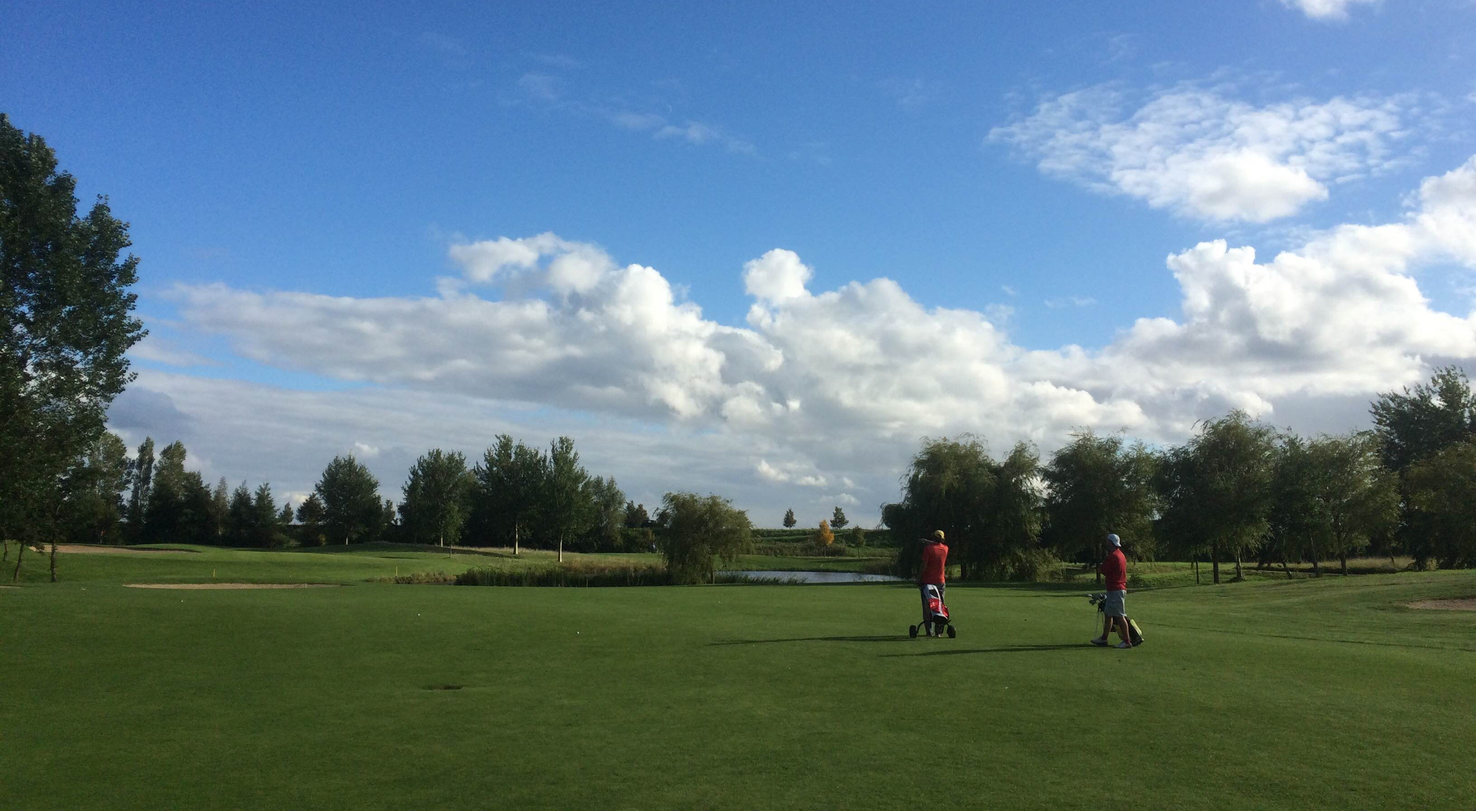
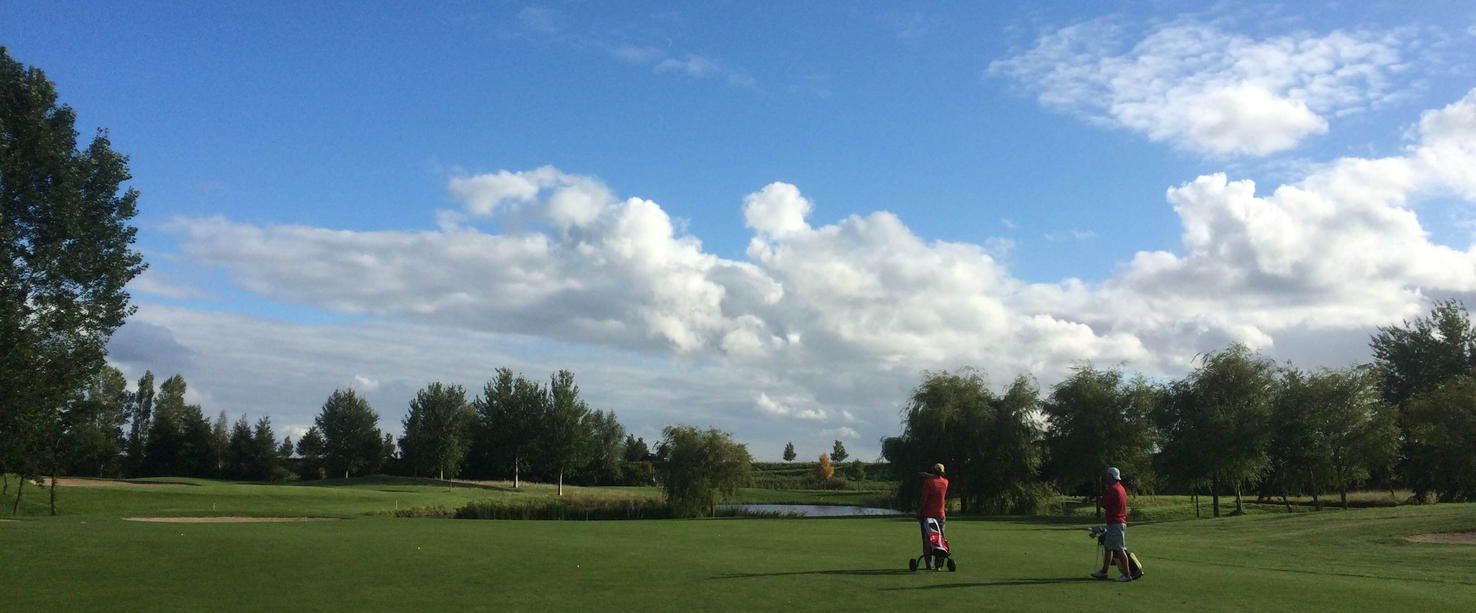
tweaks

diff --git a/index.html b/index.html
@@ -78,7 +78,7 @@
             <h2>Persoonlijke coaching op de golfbaan</h2>
             <p>Golf is als het leven zelf en weerspiegelt wie je bent. Op de golfbaan toont de golfer hoe en wie hij is als mens. Tijdens het spelen van golf heb ik gemerkt dat ik me niet voor mezelf kan verstoppen: ik golf zoals ik ben. Die conclusie heeft mij er toe gebracht mijn werk als psycholoog te combineren met het golfspel. Zo ben ik begonnen met het geven van coachingsconsulten in de golfbaan. Daar merkte ik dat ik sneller inzicht kreeg in de ander en dat de golfbaan een uitstekende plek is om mensen op scherp te zetten.</p>
             <p><em>Ik golf zoals ik ben</em> heeft tot doel mensen inzicht in zichzelf te geven door gebruik te maken van het golfspel. <em>Ik golf zoals ik ben</em> helpt in de begeleiding bij persoonlijke groei, het overkomen van obstakels in het leven en het verkrijgen van meer inzicht in eigen functioneren en handelen. Door zelfinzicht slagvaardig in je leven.</p>
-            <img src="./static/img/goese-golf.jpg" alt="Goese Golf">
+            <img src="./static/img/felixstowe.jpg" alt="Felixstowe Golf Course">
         </section>
 
         <section id="voor-wie">
@@ -114,19 +114,25 @@
             </ul>
                     
             <p><em>Ik golf zoals ik ben</em> is bedoeld voor mensen die golf spelen en meer inzicht willen krijgen in hun persoonlijke sterke en zwakke punten. Het is primair gericht op slagvaardiger worden in het leven, werk of prive. Beter golfen kan een bijwerking zijn, maar is niet het doel van deze coaching.  Een voorwaarde is dat iemand bekend is met de golfsport, en bij voorkeur een golfvaardigheidsbewijs of een baanpermissie bezit.</p>
+
+            <img src="./static/img/goese-golf.jpg" alt="Goese Golf">
         </section>
 
         <section id="hoe-werkt-het">
-            <h2>Hoe werkt het?</h2>
-            
-            <p><em>Ik golf zoals ik ben</em> gebruikt golf als middel om in korte tijd tot de kern van uw vraag te komen. In elke ronde wordt een persoonlijk doel en een concreet golfdoel afgesproken.</p>
-
-            <p><em>Ik golf zoals ik ben</em> biedt een uitgebreid coachings- of begeleidingstraject. Een standaard traject omvat vijf tot zeven ontmoetingen, waarvan in ieder geval een tot drie keer op de golfbaan. In compactere vorm is <em>Ik golf zoals ik ben</em> er in een pakket van twee en een half uur met inbegrip van intake, verkennende golfronde en korte nabespreking.</p>
-
             <blockquote>
                 ‘You get to know more of the character of a man in a round of golf than in six months of political experience’
                 <cite>David Lloyd George (1863-1945), Brits Liberal Prime Minister</cite>
             </blockquote>
+
+            <h2>Hoe werkt het?</h2>
+            
+            <p><em>Ik golf zoals ik ben</em> gebruikt golf als middel om in korte tijd tot de kern van uw vraag te komen. In elke ronde wordt een persoonlijk doel en een concreet golfdoel afgesproken.</p>
+
+            <p>
+                <em>Ik golf zoals ik ben</em> biedt een uitgebreid coachings- of begeleidingstraject. Een standaard traject omvat vijf tot zeven ontmoetingen, waarvan in ieder geval een tot drie keer op de golfbaan. In compactere vorm is <em>Ik golf zoals ik ben</em> er in een pakket van twee en een half uur met inbegrip van intake, verkennende golfronde en korte nabespreking.
+            </p>
+
+            
 
             <p>In een kennismakingsgesprek, worden vragen en doelen op een rij gezet. Dit kennismakingsgesprek kan direct voorafgaand aan het spelen, maar kan ook op een eerder tijdstip, los van de golfronde, plaatsvinden.</p>
 
@@ -135,7 +141,7 @@
 
         <section id="over-eelco">
             <h2>Over Eelco</h2>
-            <p>Ik ben gezondheidszorg-psycholoog met een passie voor golf. Die heb ik gevonden in <em>Ik golf zoals ik ben</em>. Een aantal jaar geleden stelde ik een cliënt voor om een sessie op de golfbaan te doen. Die dag werd me duidelijk dat de golfbaan een uitstekende plek is om op een actieve en prettige manier met iemand in gesprek te komen en kenmerkende karaktertrekken te leren kennen.</p>
+            <p><img src="./static/img/vradal.jpg" alt="Goese Golf">Ik ben gezondheidszorg-psycholoog met een passie voor golf. Die heb ik gevonden in <em>Ik golf zoals ik ben</em>. Een aantal jaar geleden stelde ik een cliënt voor om een sessie op de golfbaan te doen. Die dag werd me duidelijk dat de golfbaan een uitstekende plek is om op een actieve en prettige manier met iemand in gesprek te komen en kenmerkende karaktertrekken te leren kennen.</p> 
             <p>Psychologie is mijn vak, golf is mijn hobby. Ik hou van mijn vak en ben gepassioneerd golfer. In 1997 heb ik studie Psychologie afgerond aan de UvA en sindsdien ben ik werkzaam als consultant, onderzoeker en behandelaar. In 2006 ben ik gepromoveerd aan de Universiteit Utrecht op een onderzoek naar Posttraumatische Stress Stoornissen. Door mijn werk als behandelaar heb ik veel ervaring in het begeleiden van mensen bij een grote diversiteit aan problematiek. Momenteel combineer ik mijn werkzaamheden in de generalistische basis GGZ in mijn eigen praktijk (Psychologen Herengracht te Weesp) met mijn coachingswerkzaamheden voor <em>Ik golf zoals ik ben</em>.</p>
 
             <h3>Ervaringsgebieden:</h3>
@@ -204,7 +210,7 @@
 
             <p>Ipswich Golf Club, <time>24 mei 2023</time></p>
             <p>Huidige handicap: <strong>14.9</strong></p>
-            
+
         </section>
 
         <section id="zakelijk">

diff --git a/static/css/styles.css b/static/css/styles.css
@@ -1,8 +1,8 @@
 :root {
     --c-primary:#fff;
     --c-secondary:#231f20;
-    --c-tertiary: #ed1c24;
-    --c-highlight:#4db848;
+    --c-tertiary: #548bce;
+    --c-highlight:#3d9539;
 
     --space: 1em
 }
@@ -59,6 +59,11 @@ li > svg {
 img {
     max-width: 100%;
 }
+p img {
+    float:left;
+    width:200px;
+    padding-right: 1rem;
+}
 em {
     font-style: normal;
     font-weight:bold;
@@ -68,15 +73,16 @@ em {
 }
 blockquote {
     font-family: 'Montserrat', sans-serif;
-    font-size: 1.5rem;
+    font-size: 1rem;
     padding:var(--space);
-    background-color: var(--c-secondary);
+    background-color: #548bce;
     color:var(--c-primary);
     margin:0;
+    margin: -.5rem 0 0;
 }
 cite {
     display:block;
-    font-size: 1rem;
+    font-size: .9rem;
 }
 header {
     display:flex;
@@ -114,11 +120,11 @@ nav a {
     align-items: flex-end;
     padding:var(--space) calc(var(--space));
     white-space: nowrap;
-    color:var(--c-secondary)
+    color:#1a4018;
+    font-size: 1rem;
 }
 nav a:hover {
-    background-color: var(--c-tertiary);
-    color: var(--c-primary);
+    background-color: #4db848;
 }
 nav a span {
     line-height:1
@@ -134,13 +140,15 @@ main > a {
     border-radius:.5rem;
     text-decoration: none;
     transition:.25s;
+    font-size: 1rem;
 }
 main > a:hover {
     background-color: var(--c-tertiary);
     color:var(--c-primary);
 }
 section {
-    margin:0
+    margin:0;
+    position: relative;
 }
 
 footer {
@@ -156,6 +164,15 @@ footer {
     width: 1px;
 }
 @media (min-width:50rem) {
+    blockquote {
+        position: absolute;
+        top:-3.75rem;
+        right:.5rem;
+        max-width:28rem;
+        margin:0
+    }
+}
+@media (min-width:50rem) {
     body {
         font-size: 1.25em;
     }
@@ -165,8 +182,6 @@ footer {
     h2 {
         font-size: 3rem;
     }
-    blockquote {
-        font-size: 2rem;
-    }
+
 }
 
